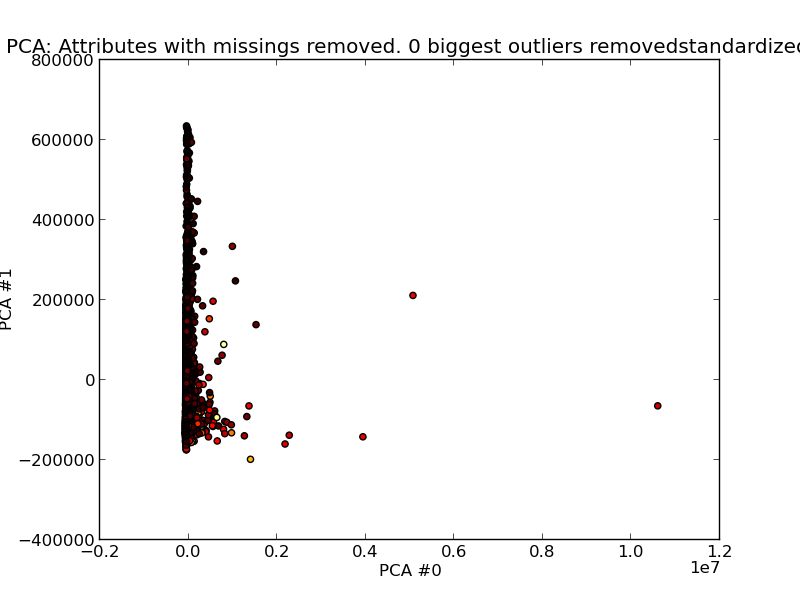
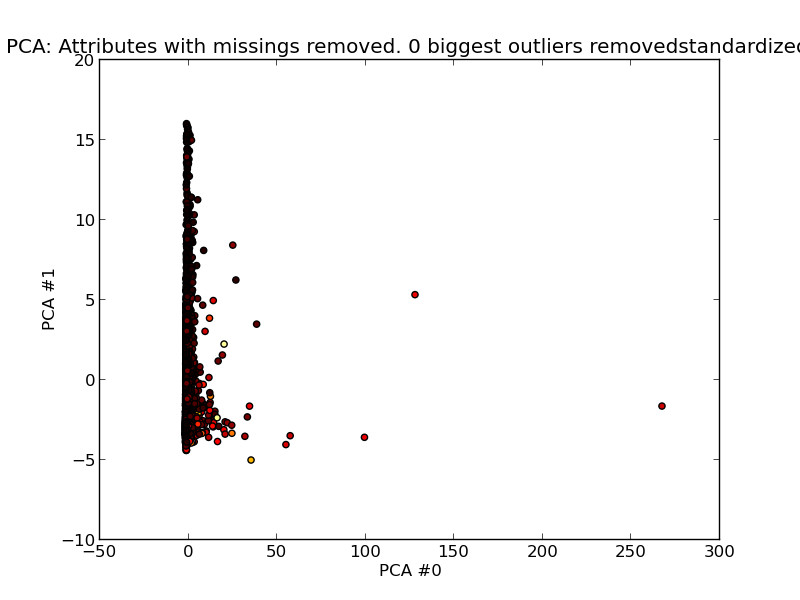
WHOOP

diff --git a/oli.py b/oli.py
@@ -18,16 +18,18 @@ FILL_MEAN = 3 # fill missing with mean
 titlestr=''
 # FUNNY CONSTANTS HAHA
 DISCARD     = 5 # discard first DISCARD columns
-INVALID_FIX = ELIM_COMM
+INVALID_FIX = FILL_MEAN
 NORMALIZE   = False
 STANDARDIZE = False
 PRENORM     = True
-REMOVE_N = 5
+REMOVE_N = 0
 
 
 filestr = ''
 # read data from comma-separated datafile
-datafile = open('data/communities_norm.data')
+datafile = open('data/communities.data')
+if PRENORM:
+	datafile = open('data/communities_norm.data')
 namefile = open('data/communities.names')
 datareader = csv.reader(datafile, delimiter=',', quotechar='|')
 namereader = csv.reader(namefile, delimiter=',', quotechar='|')
@@ -159,7 +161,7 @@ ax.set_title("Variance as a function of number of PCs")
 ax.set_xlabel("Number of principal components included")
 ax.set_ylabel("Amount of variance explained")
 
-fig_pca.savefig('variance.png')
+fig_pca.savefig('variance'+filestr+'.png')
 
 # projects the centered data onto principal component space, Z
 V = mat(V).T
@@ -196,7 +198,7 @@ cm = plt.cm.hot
 
 fig = plt.figure()
 ax1 = fig.add_subplot(1,1,1)
-ax1.scatter(x_u,y_u,c=z, label="lol", cmap=cm, vmin=zmin, vmax=zmax)
+ax1.scatter(x,y,c=z, label="lol", cmap=cm, vmin=zmin, vmax=zmax)
 ax1.set_title("PCA: " + titlestr)
 ax1.set_xlabel("PCA #"+str(i))
 ax1.set_ylabel("PCA #"+str(j))
